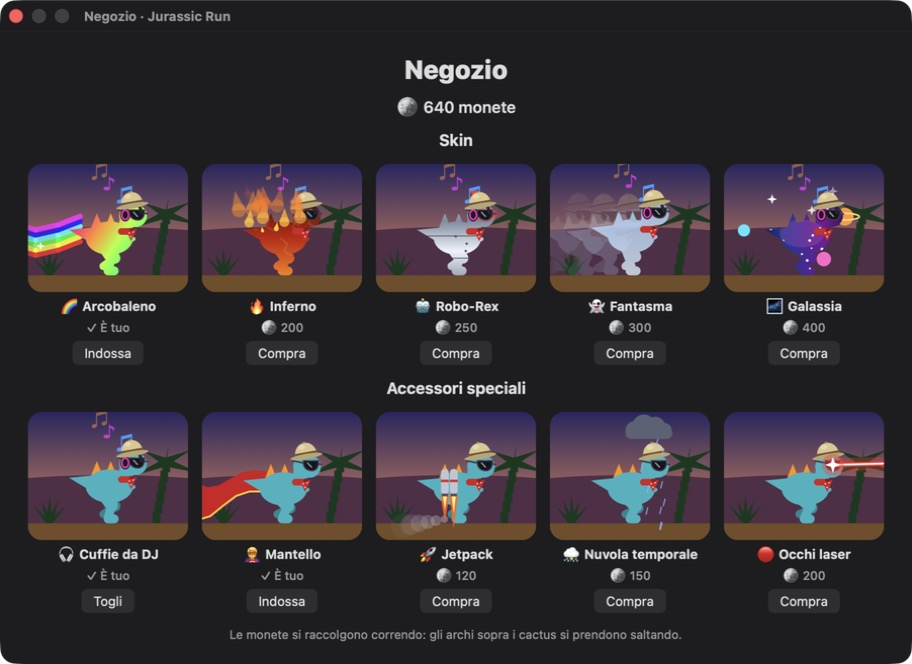
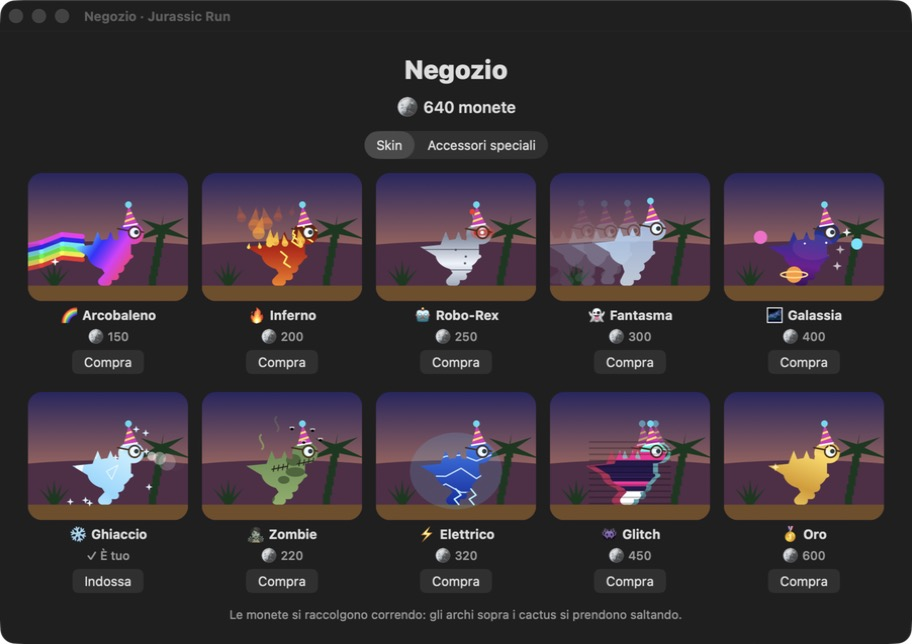
Jurassic Run 1.1: 5 nuove skin, 5 nuovi accessori e negozio a pagine

diff --git a/main.swift b/main.swift
@@ -460,8 +460,8 @@ struct Look: Codable, Equatable {
 
 // MARK: - Negozio: skin e accessori speciali comprati con le monete
 
-enum Costume: String, CaseIterable, Codable { case rainbow, inferno, robot, ghost, galaxy }
-enum Gadget: String, CaseIterable, Codable { case headphones, cape, jetpack, storm, laser }
+enum Costume: String, CaseIterable, Codable { case rainbow, inferno, robot, ghost, galaxy, ice, zombie, electric, glitch, gold }
+enum Gadget: String, CaseIterable, Codable { case headphones, cape, jetpack, storm, laser, bubblegum, halo, balloons, ufo, fireworks }
 
 enum ShopItem: Hashable {
     case costume(Costume), gadget(Gadget)
@@ -473,14 +473,16 @@ enum ShopItem: Hashable {
     }
     var title: String {
         switch self {
-        case .costume(let c): ["🌈 Arcobaleno", "🔥 Inferno", "🤖 Robo-Rex", "👻 Fantasma", "🌌 Galassia"][Costume.allCases.firstIndex(of: c)!]
-        case .gadget(let g): ["🎧 Cuffie da DJ", "🦸 Mantello", "🚀 Jetpack", "⛈ Nuvola temporale", "🔴 Occhi laser"][Gadget.allCases.firstIndex(of: g)!]
+        case .costume(let c): ["🌈 Arcobaleno", "🔥 Inferno", "🤖 Robo-Rex", "👻 Fantasma", "🌌 Galassia",
+                               "❄ Ghiaccio", "🧟 Zombie", "⚡ Elettrico", "👾 Glitch", "🥇 Oro"][Costume.allCases.firstIndex(of: c)!]
+        case .gadget(let g): ["🎧 Cuffie da DJ", "🦸 Mantello", "🚀 Jetpack", "⛈ Nuvola temporale", "🔴 Occhi laser",
+                              "🫧 Gomma da masticare", "😇 Aureola", "🎈 Palloncini", "🛸 UFO", "🎆 Fuochi d'artificio"][Gadget.allCases.firstIndex(of: g)!]
         }
     }
     var price: Int {
         switch self {
-        case .costume(let c): [150, 200, 250, 300, 400][Costume.allCases.firstIndex(of: c)!]
-        case .gadget(let g): [60, 80, 120, 150, 200][Gadget.allCases.firstIndex(of: g)!]
+        case .costume(let c): [150, 200, 250, 300, 400, 180, 220, 320, 450, 600][Costume.allCases.firstIndex(of: c)!]
+        case .gadget(let g): [60, 80, 120, 150, 200, 70, 90, 100, 250, 300][Gadget.allCases.firstIndex(of: g)!]
         }
     }
     func isWorn(in look: Look) -> Bool {
@@ -731,6 +733,51 @@ func drawCostumeTexture(_ c: Costume, in box: NSRect, _ t: CGFloat) {
             let s = 0.25 + 0.3 * (0.5 + 0.5 * sin(t * 5 + CGFloat(k)))
             NSColor.white.setFill(); oval(NSRect(x: x - s / 2, y: y - s / 2, width: s, height: s))
         }
+    case .ice: // cristallo: sfaccettature bianche e un riflesso che passa
+        NSGradient(colors: [rgb(0.85, 0.97, 1), rgb(0.55, 0.85, 1), rgb(0.75, 0.93, 1), rgb(0.4, 0.7, 0.95)])!.draw(in: box, angle: 60)
+        NSColor.white.withAlphaComponent(0.75).setStroke()
+        for k in 0..<9 {
+            let x = box.minX + hash01(k + 5) * box.width, y = box.minY + hash01(k + 15) * box.height
+            strokeLine(P(x, y), P(x + 2.2, y + 1.2), P(x + 1, y - 1.6), P(x, y), width: 0.18)
+        }
+        let x = box.minX - 6 + frac(t * 0.6) * (box.width + 12)
+        NSColor.white.withAlphaComponent(0.8).setFill(); poly(P(x, box.minY), P(x + 1.5, box.minY), P(x + 5.5, box.maxY), P(x + 4, box.maxY))
+    case .zombie: // pelle verdognola a chiazze, con le cuciture
+        NSGradient(colors: [rgb(0.55, 0.7, 0.4), rgb(0.35, 0.5, 0.3)])!.draw(in: box, angle: 90)
+        rgb(0.28, 0.4, 0.22).setFill()
+        for k in 0..<6 {
+            oval(NSRect(x: box.minX + hash01(k + 50) * box.width - 1, y: box.minY + hash01(k + 51) * box.height - 0.8,
+                        width: 2 + hash01(k + 52) * 2, height: 1.4 + hash01(k + 53)))
+        }
+        rgb(0.15, 0.12, 0.1).setStroke()
+        for k in 0..<3 {
+            let x = box.minX + 3 + CGFloat(k) * 5, y = box.minY + 5 + hash01(k + 60) * 5
+            strokeLine(P(x, y), P(x + 3, y + 0.6), width: 0.2)
+            for s in 0..<4 { let sx = x + CGFloat(s) * 0.9 + 0.3, sy = y + CGFloat(s) * 0.15; strokeLine(P(sx, sy - 0.4), P(sx + 0.2, sy + 0.7), width: 0.18) }
+        }
+    case .electric: // blu elettrico che pulsa, con fulmini che si riaccendono dentro il corpo
+        let pulse = 0.5 + 0.5 * sin(t * 12)
+        NSGradient(colors: [rgb(0.05, 0.15, 0.6), rgb(0.15 + 0.15 * pulse, 0.5 + 0.2 * pulse, 1)])!.draw(in: box, angle: 90)
+        NSColor(srgbRed: 0.85, green: 0.95, blue: 1, alpha: 0.9).setStroke()
+        let seed = Int(t * 15)
+        for k in 0..<3 {
+            let pts = (0...5).map { s in P(box.minX + 2 + CGFloat(s) * 3, box.minY + 4 + CGFloat(k) * 3 + (hash01(seed * 31 + k * 7 + s) - 0.5) * 2.5) }
+            let bolt = NSBezierPath(); bolt.move(to: pts[0]); pts.dropFirst().forEach { bolt.line(to: $0) }; bolt.lineWidth = 0.25; bolt.stroke()
+        }
+    case .glitch: // bande di colore che saltano come un segnale rotto (12 volte al secondo)
+        let seed = Int(t * 12)
+        let palette = [rgb(1, 0.1, 0.6), rgb(0.1, 1, 0.9), rgb(0.6, 1, 0.1), rgb(0.15, 0.1, 0.3), rgb(1, 1, 1), rgb(0.3, 0.2, 1)]
+        var y = box.minY, k = 0
+        while y < box.maxY {
+            let h = 0.6 + hash01(seed * 13 + k) * 2
+            palette[Int(hash01(seed * 7 + k) * 6) % 6].setFill()
+            NSRect(x: box.minX + (hash01(seed * 5 + k) - 0.5) * 2, y: y, width: box.width, height: h).fill()
+            y += h; k += 1
+        }
+    case .gold: // oro lucido con un bagliore che passa
+        NSGradient(colors: [rgb(1, 0.9, 0.45), rgb(0.85, 0.6, 0.12), rgb(1, 0.85, 0.35), rgb(0.7, 0.45, 0.08)])!.draw(in: box, angle: 70)
+        let x = box.minX - 6 + frac(t * 0.9) * (box.width + 12)
+        NSColor.white.withAlphaComponent(0.9).setFill(); poly(P(x, box.minY), P(x + 1.2, box.minY), P(x + 5.2, box.maxY), P(x + 4, box.maxY))
     }
 }
 
@@ -803,6 +850,92 @@ func drawLaser(from e: NSPoint, _ t: CGFloat) {
     NSColor.white.setFill(); sparkle(e, 1.6 * pulse)
 }
 
+/// Palloncini legati alla schiena che ondeggiano (si disegnano dietro al dino).
+func drawBalloons(from b: NSPoint, _ t: CGFloat) {
+    let spots: [(dx: CGFloat, dy: CGFloat, c: NSColor)] = [(-6, 6.5, rgb(0.95, 0.25, 0.3)), (-2.5, 8, rgb(1, 0.85, 0.2)), (-8.5, 8.8, rgb(0.3, 0.6, 1))]
+    for (k, s) in spots.enumerated() {
+        let sway = sin(t * 2 + CGFloat(k) * 1.3) * 1.2, bob = sin(t * 3 + CGFloat(k)) * 0.5
+        let c = P(b.x + s.dx + sway, b.y + s.dy + bob)
+        let string = NSBezierPath(); string.move(to: b)
+        string.curve(to: P(c.x, c.y - 2.6), controlPoint1: P(b.x - 1, b.y + 3), controlPoint2: P(c.x + sway * 0.5, c.y - 5))
+        NSColor(white: 0.9, alpha: 1).setStroke(); string.lineWidth = 0.2; string.stroke()
+        s.c.setFill(); oval(NSRect(x: c.x - 1.9, y: c.y - 2.4, width: 3.8, height: 4.8)); poly(P(c.x - 0.4, c.y - 2.8), P(c.x + 0.4, c.y - 2.8), P(c.x, c.y - 2.3))
+        NSColor.white.withAlphaComponent(0.55).setFill(); oval(NSRect(x: c.x - 1.2, y: c.y + 0.4, width: 0.8, height: 1.2))
+    }
+}
+
+/// Gomma da masticare: una bolla rosa che si gonfia dalla bocca e scoppia ogni 1,8 s.
+func drawBubblegum(at mouth: NSPoint, _ t: CGFloat) {
+    let ph = frac(t / 1.8)
+    if ph < 0.8 {
+        let r = 0.4 + ph / 0.8 * 3.2, c = P(mouth.x + r * 0.8, mouth.y)
+        NSColor(srgbRed: 1, green: 0.5, blue: 0.75, alpha: 0.85).setFill(); oval(NSRect(x: c.x - r, y: c.y - r, width: 2 * r, height: 2 * r))
+        NSColor.white.withAlphaComponent(0.6).setFill(); oval(NSRect(x: c.x - r * 0.5, y: c.y + r * 0.25, width: r * 0.45, height: r * 0.35))
+    } else { // pop: brandelli rosa che volano via e un lampo bianco
+        let k = (ph - 0.8) / 0.2, c = P(mouth.x + 2.8, mouth.y)
+        NSColor(srgbRed: 1, green: 0.5, blue: 0.75, alpha: 1 - k).setFill()
+        for j in 0..<8 {
+            let a = CGFloat(j) * .pi / 4, d = 3 + k * 4
+            oval(NSRect(x: c.x + cos(a) * d - 0.6, y: c.y + sin(a) * d - 0.6, width: 1.2, height: 1.2))
+        }
+        NSColor.white.withAlphaComponent(1 - k).setFill(); sparkle(c, 2 * (1 - k) + 0.5)
+    }
+}
+
+/// Aureola: anello d'oro che fluttua sopra la testa, con alone, raggi che girano e un riflesso che corre.
+func drawHalo(over h: NSPoint, lift: CGFloat, _ t: CGFloat) {
+    let c = P(h.x - 0.3, h.y + 3 + lift + sin(t * 2.5) * 0.4)
+    NSColor(srgbRed: 1, green: 0.95, blue: 0.5, alpha: 0.3 + 0.15 * sin(t * 4)).setFill(); oval(NSRect(x: c.x - 3.6, y: c.y - 1.6, width: 7.2, height: 3.2))
+    NSColor(srgbRed: 1, green: 0.95, blue: 0.6, alpha: 0.6).setStroke()
+    for k in 0..<6 {
+        let a = t * 1.5 + CGFloat(k) * .pi / 3
+        strokeLine(P(c.x + cos(a) * 3.2, c.y + sin(a) * 1.4), P(c.x + cos(a) * 4.8, c.y + sin(a) * 2.3), width: 0.25)
+    }
+    let ring = NSBezierPath(ovalIn: NSRect(x: c.x - 2.6, y: c.y - 0.75, width: 5.2, height: 1.5))
+    rgb(1, 0.82, 0.25).setStroke(); ring.lineWidth = 0.55; ring.stroke()
+    let a = t * 4; NSColor.white.setFill(); sparkle(P(c.x + cos(a) * 2.6, c.y + sin(a) * 0.75), 0.8)
+}
+
+/// UFO: disco volante sopra il dino, luci che cambiano colore e raggio traente con particelle che salgono.
+func drawUFO(over h: NSPoint, ground: CGFloat, _ t: CGFloat) {
+    let c = P(h.x - 1 + sin(t * 1.5) * 1.2, h.y + 5.8 + sin(t * 2.3) * 0.6)
+    NSColor(srgbRed: 0.6, green: 1, blue: 0.5, alpha: 0.25 + 0.12 * sin(t * 8)).setFill()
+    poly(P(c.x - 1.5, c.y - 1), P(c.x + 1.5, c.y - 1), P(c.x + 6, ground), P(c.x - 6, ground))
+    NSColor.white.withAlphaComponent(0.8).setFill()
+    for k in 0..<6 {
+        let ph = frac(t * 0.9 + CGFloat(k) / 6), y = ground + ph * (c.y - 1 - ground), half = 6 - ph * 4.5
+        oval(NSRect(x: c.x + (hash01(k + 90) * 2 - 1) * half * 0.8 - 0.3, y: y, width: 0.6, height: 0.6))
+    }
+    NSColor(srgbRed: 0.55, green: 0.85, blue: 1, alpha: 0.85).setFill(); oval(NSRect(x: c.x - 2, y: c.y - 0.2, width: 4, height: 3))
+    rgb(0.6, 0.63, 0.7).setFill(); oval(NSRect(x: c.x - 5, y: c.y - 1.3, width: 10, height: 2.6))
+    rgb(0.4, 0.42, 0.48).setFill(); oval(NSRect(x: c.x - 3.5, y: c.y - 1.5, width: 7, height: 1))
+    for k in 0..<5 {
+        NSColor(hue: frac(CGFloat(k) / 5 + t), saturation: 0.9, brightness: 1, alpha: 1).setFill()
+        oval(NSRect(x: c.x - 4.4 + CGFloat(k) * 2, y: c.y - 0.4, width: 0.8, height: 0.8))
+    }
+}
+
+/// Fuochi d'artificio: due razzi alternati partono dalla schiena e scoppiano in corone colorate che ricadono.
+func drawFireworks(from b: NSPoint, _ t: CGFloat) {
+    for k in 0..<2 {
+        let cycle = t * 0.75 + CGFloat(k) * 0.5, ph = frac(cycle)
+        let x0 = b.x - 1 - CGFloat(k) * 3, top = b.y + 7.5 + CGFloat(k) * 1.2
+        if ph < 0.3 { // il razzo sale lasciando la scia
+            let u = ph / 0.3, y = b.y + u * (top - b.y), x = x0 - u * 2
+            NSColor(srgbRed: 1, green: 0.8, blue: 0.3, alpha: 0.7).setStroke(); strokeLine(P(x + 0.6, y - 2.5), P(x, y), width: 0.35)
+            NSColor.white.setFill(); oval(NSRect(x: x - 0.4, y: y - 0.4, width: 0.8, height: 0.8))
+        } else { // scoppio: ogni lancio ha un colore diverso
+            let e = (ph - 0.3) / 0.7, c = P(x0 - 2, top), hue = frac(floor(cycle) * 0.29 + CGFloat(k) * 0.37)
+            for j in 0..<14 {
+                let a = CGFloat(j) / 14 * 2 * .pi, r = e * 4.5
+                NSColor(hue: frac(hue + CGFloat(j % 3) * 0.08), saturation: 0.8, brightness: 1, alpha: 1 - e).setFill()
+                oval(NSRect(x: c.x + cos(a) * r - 0.5, y: c.y + sin(a) * r - e * e * 3 - 0.5, width: 1, height: 1))
+            }
+            NSColor.white.withAlphaComponent(max(0, 1 - e * 4)).setFill(); sparkle(c, 3 * (1 - e))
+        }
+    }
+}
+
 /// Cuffie da DJ: archetto sopra la testa, padiglione con luci arcobaleno, note che volano via.
 func drawHeadphones(top h: NSPoint, eye e: NSPoint, _ t: CGFloat) {
     let cup = P(e.x - 2.1, e.y - 0.1)
@@ -870,7 +1003,22 @@ func drawDino(_ rect: CGRect, phase: CGFloat?, wings: Bool, flap: CGFloat, look:
         }
     }
     if look.costume == .galaxy { orbit(front: false) }
+    if look.costume == .electric { // aura elettrica che vibra
+        NSColor(srgbRed: 0.3, green: 0.8, blue: 1, alpha: 0.25 + 0.15 * sin(t * 15)).setFill()
+        oval(NSRect(x: p.minX - 2, y: p.minY - 1, width: 18, height: 15))
+    }
+    if look.costume == .glitch { // immagine sdoppiata rossa e azzurra che trema
+        var copy = look; copy.costume = nil; copy.gadget = nil
+        let jitter = (hash01(Int(t * 12)) - 0.5) * 1.5
+        for (color, dx): ([CGFloat], CGFloat) in [([1, 0.1, 0.4], -1.3), ([0.1, 1, 1], 1.3)] {
+            copy.skin = color; copy.accent = color
+            ctx.saveGState(); ctx.setAlpha(0.55); ctx.beginTransparencyLayer(auxiliaryInfo: nil)
+            drawDino(rect.offsetBy(dx: dx + jitter, dy: 0), phase: phase, wings: false, flap: 0, look: copy)
+            ctx.endTransparencyLayer(); ctx.restoreGState()
+        }
+    }
     if look.gadget == .cape { drawCape(at: pt(f.back.x, f.back.y), t) }
+    if look.gadget == .balloons { drawBalloons(from: pt(f.back.x, f.back.y), t) }
 
     // --- corpo: con una skin, si disegna in un livello a parte e poi ci si dipinge sopra la texture
     if look.costume != nil {
@@ -969,6 +1117,10 @@ func drawDino(_ rect: CGRect, phase: CGFloat?, wings: Bool, flap: CGFloat, look:
     case .jetpack: drawJetpack(at: back, t)
     case .storm: drawStorm(over: head, ground: ground, t)
     case .laser: drawLaser(from: eye, t)
+    case .bubblegum: drawBubblegum(at: P(eye.x + 1.6 * f.eyeScale, eye.y - 1.3 * f.eyeScale), t)
+    case .halo: drawHalo(over: head, lift: look.hat == .none ? 0 : 3 * f.hatScale, t) // sopra l'eventuale cappello
+    case .ufo: drawUFO(over: head, ground: ground, t)
+    case .fireworks: drawFireworks(from: back, t)
     default: break
     }
     switch look.costume {
@@ -986,6 +1138,56 @@ func drawDino(_ rect: CGRect, phase: CGFloat?, wings: Bool, flap: CGFloat, look:
             NSColor.white.withAlphaComponent(max(0, sin(t * 4 + CGFloat(k) * 1.7))).setFill()
             sparkle(P(p.minX - 2 + hash01(k + 60) * 18, p.minY + hash01(k + 70) * 15), 0.9)
         }
+    case .ice: // fiato gelido davanti al muso e fiocchi di neve che cadono
+        for k in 0..<4 {
+            let ph = frac(t * 1.2 + CGFloat(k) / 4), r = 0.5 + ph * 1.6
+            NSColor(white: 1, alpha: 0.7 * (1 - ph)).setFill()
+            oval(NSRect(x: eye.x + 2 + ph * 6 - r, y: eye.y - 1.5 + sin(ph * 6) * 0.6 - r, width: 2 * r, height: 2 * r))
+        }
+        rgb(0.85, 0.95, 1).setFill()
+        for k in 0..<8 {
+            let ph = frac(t * 0.5 + hash01(k + 80))
+            sparkle(P(p.minX - 2 + hash01(k + 81) * 18 + sin(t * 2 + CGFloat(k)), p.maxY + 3 - ph * 16), 0.7)
+        }
+    case .zombie: // onde di puzza dalla schiena e mosche che ronzano attorno alla testa
+        for k in 0..<2 {
+            let ph = frac(t * 0.6 + CGFloat(k) * 0.5), x = p.minX + 3 + CGFloat(k) * 3, y = p.minY + 9 + ph * 7
+            let wave = NSBezierPath(); wave.move(to: P(x, y)); wave.curve(to: P(x, y + 3), controlPoint1: P(x + 1.2, y + 1), controlPoint2: P(x - 1.2, y + 2))
+            NSColor(srgbRed: 0.55, green: 0.8, blue: 0.3, alpha: 0.7 * (1 - ph)).setStroke(); wave.lineWidth = 0.35; wave.stroke()
+        }
+        for k in 0..<4 {
+            let a = t * (6 + CGFloat(k)) + CGFloat(k) * 1.7
+            let c = P(head.x + cos(a) * (2.5 + hash01(k) * 1.5) + sin(t * 13 + CGFloat(k)) * 0.5, head.y + 1.5 + sin(a * 1.3) * 1.8)
+            NSColor(white: 0.9, alpha: 0.7).setFill() // ali che vibrano
+            oval(NSRect(x: c.x - 0.5, y: c.y + 0.05, width: 0.6, height: 0.4)); oval(NSRect(x: c.x - 0.1, y: c.y + 0.05, width: 0.6, height: 0.4))
+            NSColor.black.setFill(); oval(NSRect(x: c.x - 0.3, y: c.y - 0.3, width: 0.6, height: 0.5))
+        }
+    case .electric: // scariche che saltano dal corpo al terreno
+        if frac(t * 3) < 0.5 {
+            let seed = Int(t * 6)
+            NSColor(srgbRed: 0.7, green: 0.95, blue: 1, alpha: 1).setStroke()
+            for k in 0..<2 {
+                let s = P(p.minX + 3 + hash01(seed * 3 + k) * 8, p.minY + 3)
+                strokeLine(s, P(s.x + 1, s.y - 1.2), P(s.x - 0.3, s.y - 2), P(s.x + 0.6, ground), width: 0.3)
+            }
+        }
+    case .glitch: // righe di scansione e blocchi di pixel fuori posto
+        NSColor.black.withAlphaComponent(0.25).setFill()
+        for y in stride(from: p.minY, to: p.maxY + 1, by: 1.2) { NSRect(x: p.minX - 1, y: y, width: 16, height: 0.3).fill() }
+        if frac(t * 2.3) < 0.3 {
+            let seed = Int(t * 9)
+            for k in 0..<3 {
+                [rgb(1, 0.1, 0.6), rgb(0.1, 1, 0.9), rgb(1, 1, 1)][k].withAlphaComponent(0.85).setFill()
+                NSRect(x: p.minX + hash01(seed * 4 + k) * 14, y: p.minY + hash01(seed * 4 + k + 1) * 12, width: 1 + hash01(seed + k) * 3, height: 0.6).fill()
+            }
+        }
+    case .gold: // scintille dorate e una grande stella "bling" che lampeggia
+        for k in 0..<8 {
+            NSColor(srgbRed: 1, green: 0.95, blue: 0.6, alpha: max(0, sin(t * 5 + CGFloat(k) * 2.1))).setFill()
+            sparkle(P(p.minX - 1 + hash01(k + 100) * 16, p.minY + hash01(k + 101) * 14), 0.8)
+        }
+        let bling = max(0, sin(t * 2.5))
+        if bling > 0.6 { NSColor.white.withAlphaComponent((bling - 0.6) / 0.4).setFill(); sparkle(P(eye.x - 3, eye.y + 1.5), 3 * bling) }
     default: break
     }
 
@@ -1004,7 +1206,7 @@ final class DinoPreview: NSView {
         let s = scenes[0]
         NSBezierPath(roundedRect: bounds, xRadius: 14, yRadius: 14).addClip()
         NSGradient(starting: s.skyBottom, ending: s.skyTop)!.draw(in: bounds, angle: 90)
-        let k = min(bounds.width / 26, bounds.height / 23) // unità del gioco → punti; alto abbastanza per la nuvola temporale
+        let k = min(bounds.width / 26, bounds.height / 25) // unità del gioco → punti; alto abbastanza per nuvola, palloncini, UFO e fuochi
         let tr = NSAffineTransform(); tr.translateX(by: (bounds.width - 26 * k) / 2, yBy: 0); tr.scale(by: k); tr.concat()
         drawBack(.hills, 13, 0, s)
         s.mid.setFill(); drawFern(2.5, size: 5); drawPalm(21, height: 11)
@@ -1657,6 +1859,7 @@ final class AppDelegate: NSObject, NSApplicationDelegate {
     var shopWindow: NSWindow?
     let shopCoins = NSTextField(labelWithString: "")
     var shopCards: [(item: ShopItem, preview: DinoPreview, price: NSTextField, button: NSButton)] = []
+    var shopPages: [NSView] = [] // 0 = skin, 1 = accessori
     let speciesPop = NSPopUpButton(frame: .zero, pullsDown: false), hatPop = NSPopUpButton(frame: .zero, pullsDown: false)
     let glassesPop = NSPopUpButton(frame: .zero, pullsDown: false), neckPop = NSPopUpButton(frame: .zero, pullsDown: false)
     let skinWell = NSColorWell(style: .minimal), accentWell = NSColorWell(style: .minimal)
@@ -1720,12 +1923,21 @@ final class AppDelegate: NSObject, NSApplicationDelegate {
                 return v
             }
             func row(_ items: [ShopItem]) -> NSView { let r = NSStackView(views: items.map(card)); r.spacing = 14; r.alignment = .top; return r }
+            func page(_ items: [ShopItem]) -> NSView { // una pagina per categoria: due file da 5
+                let p = NSStackView(views: [row(Array(items.prefix(5))), row(Array(items.dropFirst(5)))])
+                p.orientation = .vertical; p.spacing = 18
+                return p
+            }
+            shopPages = [page(Costume.allCases.map { .costume($0) }), page(Gadget.allCases.map { .gadget($0) })]
+            shopPages[1].isHidden = true // le pagine hanno la stessa misura: la finestra non cambia forma
+            let tabs = NSSegmentedControl(labels: ["Skin", "Accessori speciali"], trackingMode: .selectOne,
+                                          target: self, action: #selector(shopPageChanged))
+            tabs.selectedSegment = 0
+            tabs.controlSize = .large
             shopCoins.font = .systemFont(ofSize: 16, weight: .semibold)
             let hint = label("Le monete si raccolgono correndo: gli archi sopra i cactus si prendono saltando.", size: 12, weight: .regular)
             hint.textColor = .secondaryLabelColor
-            let content = stack([label("Negozio", size: 26, weight: .heavy), shopCoins,
-                                 label("Skin", size: 16, weight: .bold), row(Costume.allCases.map { .costume($0) }),
-                                 label("Accessori speciali", size: 16, weight: .bold), row(Gadget.allCases.map { .gadget($0) }), hint])
+            let content = stack([label("Negozio", size: 26, weight: .heavy), shopCoins, tabs] + shopPages + [hint])
             let w = NSWindow(contentRect: .zero, styleMask: [.titled, .closable], backing: .buffered, defer: false)
             w.title = "Negozio · Jurassic Run"
             w.isReleasedWhenClosed = false
@@ -1737,6 +1949,10 @@ final class AppDelegate: NSObject, NSApplicationDelegate {
         }
         refreshShop()
         shopWindow!.makeKeyAndOrderFront(nil)
+    }
+
+    @objc func shopPageChanged(_ sender: NSSegmentedControl) {
+        for (i, page) in shopPages.enumerated() { page.isHidden = i != sender.selectedSegment }
     }
 
     /// Aggiorna monete, record e pulsanti di negozio e menù.
@@ -1984,7 +2200,8 @@ if CommandLine.arguments.contains("--selftest") {
     var dressed = Look(); dressed.costume = .galaxy; dressed.gadget = .laser
     assert(try! JSONDecoder().decode(Look.self, from: JSONEncoder().encode(dressed)) == dressed, "skin e accessorio si salvano")
 
-    assert(Set(ShopItem.all.map(\.id)).count == 10 && ShopItem.all.allSatisfy { $0.price > 0 }, "10 oggetti con id unici e prezzo")
+    assert(Set(ShopItem.all.map(\.id)).count == 20 && ShopItem.all.allSatisfy { $0.price > 0 }, "20 oggetti con id unici e prezzo")
+    assert(Set(ShopItem.all.map(\.title)).count == 20, "ogni oggetto ha il suo nome")
     var purse = Wallet(coins: 100)
     assert(!purse.buy(.costume(.galaxy)) && purse.coins == 100, "senza monete sufficienti non si compra")
     assert(purse.buy(.gadget(.headphones)) && purse.coins == 40 && purse.owned.contains("extra.headphones"), "comprare scala le monete")

diff --git a/README.md b/README.md
@@ -50,17 +50,19 @@ Quattro specie (T-Rex, Triceratopo, Stegosauro, Brachiosauro), colori a scelta, 
 
 ## Negozio
 
-Le monete si raccolgono correndo (gli archi sopra i cactus si prendono saltando) e restano salvate tra una partita e l'altra. Nel negozio si spendono per skin e accessori animati.
+Le monete si raccolgono correndo (gli archi sopra i cactus si prendono saltando) e restano salvate tra una partita e l'altra. Nel negozio si spendono per **10 skin** e **10 accessori speciali** animati, divisi in due pagine. Ogni scheda mostra il tuo dinosauro con l'oggetto addosso.
 
-![Negozio](docs/negozio.jpg)
+![Negozio, pagina delle skin](docs/negozio.jpg)
+
+![Negozio, pagina degli accessori](docs/negozio-accessori.jpg)
 
 ### Skin
 
-![Le cinque skin](docs/skin.gif)
+![Le dieci skin](docs/skin.gif)
 
 ### Accessori speciali
 
-![I cinque accessori](docs/accessori.gif)
+![I dieci accessori](docs/accessori.gif)
 
 ## Installazione
 
